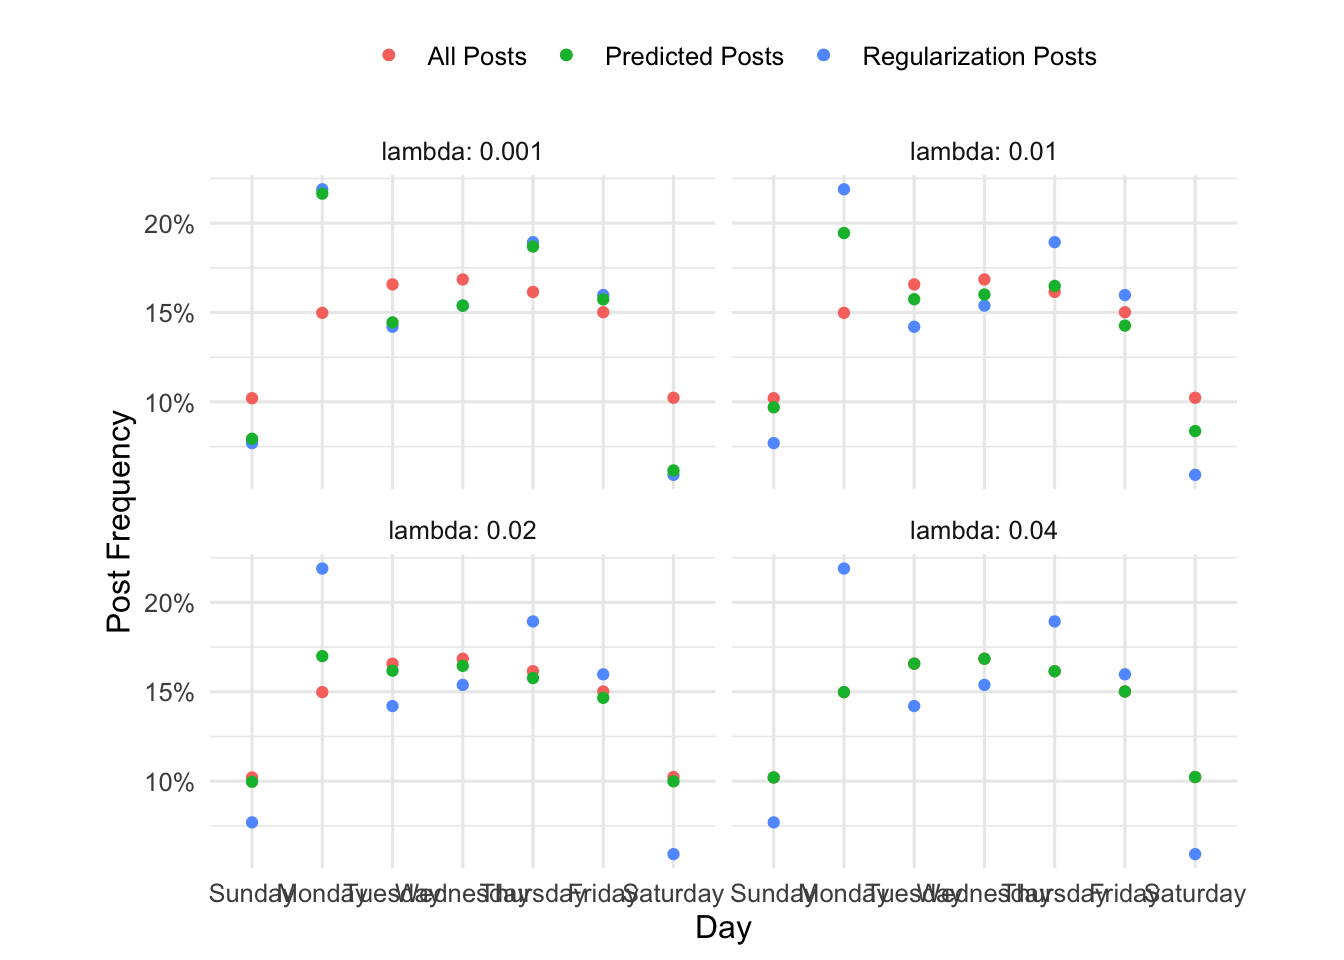
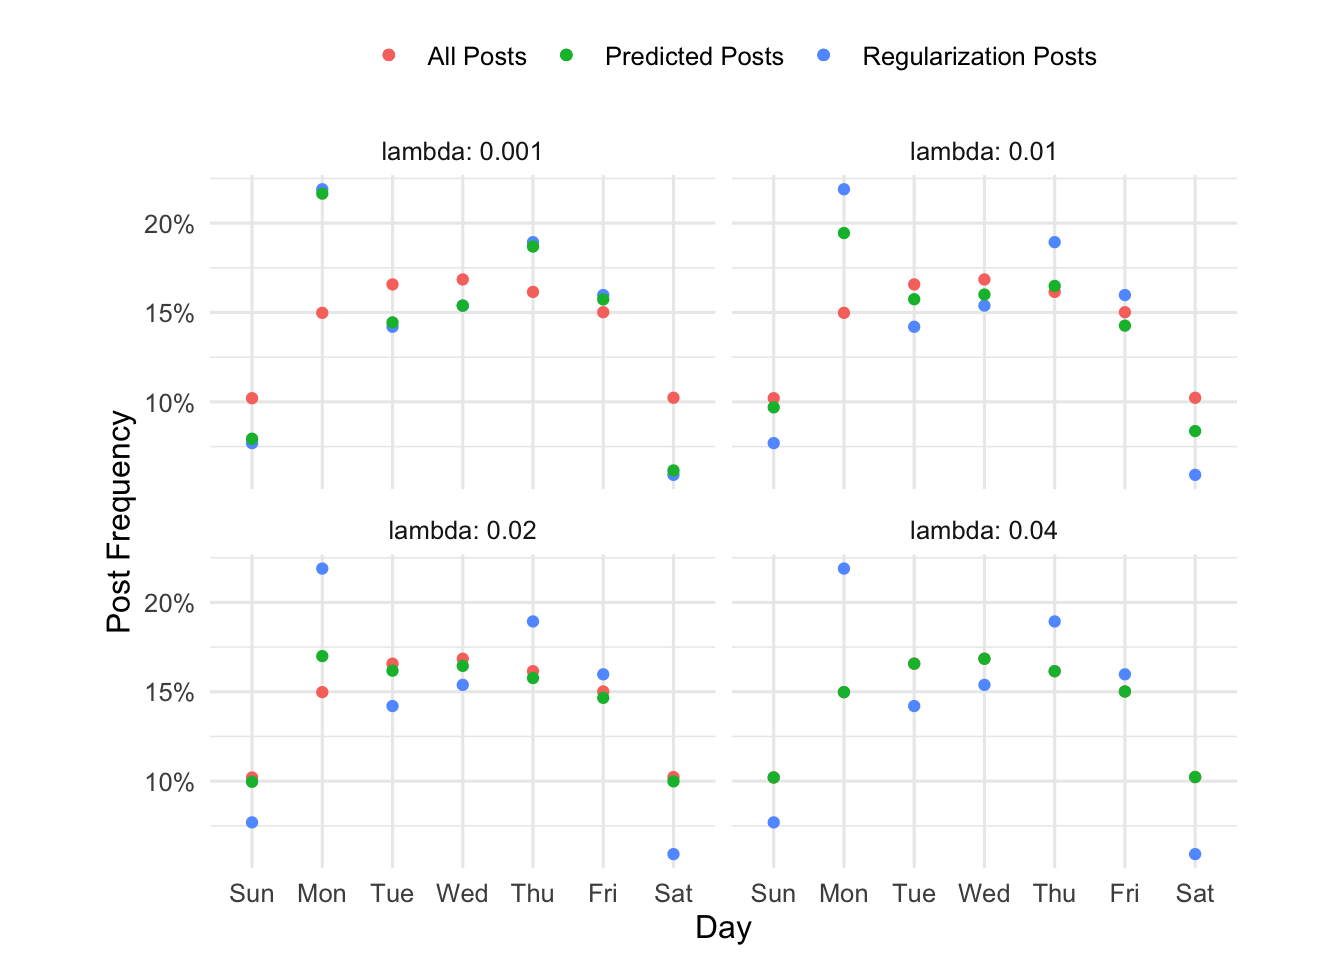
adds penalty postz'

Changed region(s): [[0.1562, 0.9062, 0.9375, 0.9375]]

diff --git a/docs/posts/2023-09-24-l1/index.html b/docs/posts/2023-09-24-l1/index.html
@@ -7,7 +7,7 @@
 <meta name="viewport" content="width=device-width, initial-scale=1.0, user-scalable=yes">
 
 <meta name="author" content="Demetri Pananos">
-<meta name="dcterms.date" content="2023-09-08">
+<meta name="dcterms.date" content="2023-09-24">
 
 <title>Demetri Pananos Ph.D - Regularization of Noisy Multinomial Countrs</title>
 <style>
@@ -200,7 +200,7 @@ code span.wa { color: #60a0b0; font-weight: bold; font-style: italic; } /* Warni
       <div>
       <div class="quarto-title-meta-heading">Published</div>
       <div class="quarto-title-meta-contents">
-        <p class="date">September 8, 2023</p>
+        <p class="date">September 24, 2023</p>
       </div>
     </div>
     
@@ -341,7 +341,7 @@ order by cast(A.CreationDate as date)
 <span id="cb3-3"><a href="#cb3-3" aria-hidden="true" tabindex="-1"></a>            <span class="fu">geom_point</span>(<span class="fu">aes</span>(oday, num_posts_p, <span class="at">color=</span><span class="st">'All Posts'</span>)) <span class="sc">+</span> </span>
 <span id="cb3-4"><a href="#cb3-4" aria-hidden="true" tabindex="-1"></a>            <span class="fu">geom_point</span>(<span class="fu">aes</span>(oday, reg_posts_p, <span class="at">color=</span><span class="st">'Regularization Posts'</span>)) <span class="sc">+</span> </span>
 <span id="cb3-5"><a href="#cb3-5" aria-hidden="true" tabindex="-1"></a>            <span class="fu">scale_y_continuous</span>(<span class="at">labels =</span> scales<span class="sc">::</span>percent) <span class="sc">+</span> </span>
-<span id="cb3-6"><a href="#cb3-6" aria-hidden="true" tabindex="-1"></a>            <span class="fu">labs</span>(<span class="at">x=</span><span class="st">'Day'</span>, <span class="at">y=</span><span class="st">'Post Frequency'</span>, <span class="at">color=</span><span class="st">''</span>)</span>
+<span id="cb3-6"><a href="#cb3-6" aria-hidden="true" tabindex="-1"></a>            <span class="fu">labs</span>(<span class="at">x=</span><span class="st">'Day'</span>, <span class="at">y=</span><span class="st">'Post Frequency'</span>, <span class="at">color=</span><span class="st">''</span>) </span>
 <span id="cb3-7"><a href="#cb3-7" aria-hidden="true" tabindex="-1"></a>            </span>
 <span id="cb3-8"><a href="#cb3-8" aria-hidden="true" tabindex="-1"></a>base_plot</span></code><button title="Copy to Clipboard" class="code-copy-button"><i class="bi"></i></button></pre></div>
 </details>
@@ -361,7 +361,7 @@ order by cast(A.CreationDate as date)
 <span id="cb4-6"><a href="#cb4-6" aria-hidden="true" tabindex="-1"></a><span class="co"># Grid of penalties to search over</span></span>
 <span id="cb4-7"><a href="#cb4-7" aria-hidden="true" tabindex="-1"></a>lambda.grid <span class="ot">&lt;-</span> <span class="dv">2</span><span class="sc">^</span><span class="fu">seq</span>(<span class="sc">-</span><span class="dv">8</span>, <span class="dv">0</span>, <span class="fl">0.005</span>)</span>
 <span id="cb4-8"><a href="#cb4-8" aria-hidden="true" tabindex="-1"></a></span>
-<span id="cb4-9"><a href="#cb4-9" aria-hidden="true" tabindex="-1"></a><span class="co"># Fir the model and compute the difference between the largest error and our tolerance</span></span>
+<span id="cb4-9"><a href="#cb4-9" aria-hidden="true" tabindex="-1"></a><span class="co"># Fit the model and compute the difference between the largest error and our tolerance</span></span>
 <span id="cb4-10"><a href="#cb4-10" aria-hidden="true" tabindex="-1"></a>fit_lasso <span class="ot">&lt;-</span> <span class="cf">function</span>(x){</span>
 <span id="cb4-11"><a href="#cb4-11" aria-hidden="true" tabindex="-1"></a>  fit <span class="ot">&lt;-</span> <span class="fu">glmnet</span>(X, r, <span class="at">family=</span><span class="st">'poisson'</span>, <span class="at">offset=</span><span class="fu">log</span>(u), <span class="at">lambda=</span>x)</span>
 <span id="cb4-12"><a href="#cb4-12" aria-hidden="true" tabindex="-1"></a>  p <span class="ot">&lt;-</span> <span class="fu">predict</span>(fit, <span class="at">newx=</span>X, <span class="at">newoffset=</span><span class="fu">log</span>(u), <span class="at">type=</span><span class="st">'response'</span>)</span>
@@ -369,24 +369,26 @@ order by cast(A.CreationDate as date)
 <span id="cb4-14"><a href="#cb4-14" aria-hidden="true" tabindex="-1"></a>}</span>
 <span id="cb4-15"><a href="#cb4-15" aria-hidden="true" tabindex="-1"></a></span>
 <span id="cb4-16"><a href="#cb4-16" aria-hidden="true" tabindex="-1"></a>errors<span class="ot">&lt;-</span><span class="fu">map_dbl</span>(lambda.grid, fit_lasso)</span>
-<span id="cb4-17"><a href="#cb4-17" aria-hidden="true" tabindex="-1"></a>lambda <span class="ot">&lt;-</span> lambda.grid[<span class="fu">which.min</span>(errors)]</span>
-<span id="cb4-18"><a href="#cb4-18" aria-hidden="true" tabindex="-1"></a>fit <span class="ot">&lt;-</span> <span class="fu">glmnet</span>(X, r, <span class="at">family=</span><span class="st">'poisson'</span>, <span class="at">offset=</span><span class="fu">log</span>(u), <span class="at">lambda=</span>lambda)</span>
-<span id="cb4-19"><a href="#cb4-19" aria-hidden="true" tabindex="-1"></a>d<span class="sc">$</span>predicted <span class="ot">&lt;-</span> <span class="fu">predict</span>(fit, <span class="at">newx=</span>X, <span class="at">newoffset=</span><span class="fu">log</span>(u), <span class="at">type=</span><span class="st">'response'</span>)[, <span class="st">'s0'</span>]</span>
-<span id="cb4-20"><a href="#cb4-20" aria-hidden="true" tabindex="-1"></a></span>
-<span id="cb4-21"><a href="#cb4-21" aria-hidden="true" tabindex="-1"></a>new_plot <span class="ot">&lt;-</span> d <span class="sc">%&gt;%</span> </span>
-<span id="cb4-22"><a href="#cb4-22" aria-hidden="true" tabindex="-1"></a>            <span class="fu">ggplot</span>() <span class="sc">+</span> </span>
-<span id="cb4-23"><a href="#cb4-23" aria-hidden="true" tabindex="-1"></a>            <span class="fu">geom_point</span>(<span class="fu">aes</span>(oday, num_posts_p, <span class="at">color=</span><span class="st">'All Posts'</span>)) <span class="sc">+</span> </span>
-<span id="cb4-24"><a href="#cb4-24" aria-hidden="true" tabindex="-1"></a>            <span class="fu">geom_point</span>(<span class="fu">aes</span>(oday, reg_posts_p, <span class="at">color=</span><span class="st">'Regularization Posts'</span>)) <span class="sc">+</span> </span>
-<span id="cb4-25"><a href="#cb4-25" aria-hidden="true" tabindex="-1"></a>            <span class="fu">geom_point</span>(<span class="fu">aes</span>(oday, predicted, <span class="at">color=</span><span class="st">'Predicted Posts'</span>)) <span class="sc">+</span> </span>
-<span id="cb4-26"><a href="#cb4-26" aria-hidden="true" tabindex="-1"></a>            <span class="fu">scale_y_continuous</span>(<span class="at">labels =</span> scales<span class="sc">::</span>percent) <span class="sc">+</span> </span>
-<span id="cb4-27"><a href="#cb4-27" aria-hidden="true" tabindex="-1"></a>            <span class="fu">labs</span>(<span class="at">x=</span><span class="st">'Day'</span>, <span class="at">y=</span><span class="st">'Post Frequency'</span>, <span class="at">color=</span><span class="st">''</span>)</span>
-<span id="cb4-28"><a href="#cb4-28" aria-hidden="true" tabindex="-1"></a></span>
-<span id="cb4-29"><a href="#cb4-29" aria-hidden="true" tabindex="-1"></a>new_plot</span></code><button title="Copy to Clipboard" class="code-copy-button"><i class="bi"></i></button></pre></div>
+<span id="cb4-17"><a href="#cb4-17" aria-hidden="true" tabindex="-1"></a><span class="co"># Select the lambda which produces error closest to 0.03</span></span>
+<span id="cb4-18"><a href="#cb4-18" aria-hidden="true" tabindex="-1"></a>lambda <span class="ot">&lt;-</span> lambda.grid[<span class="fu">which.min</span>(errors)]</span>
+<span id="cb4-19"><a href="#cb4-19" aria-hidden="true" tabindex="-1"></a><span class="co"># Make predictions under this model</span></span>
+<span id="cb4-20"><a href="#cb4-20" aria-hidden="true" tabindex="-1"></a>fit <span class="ot">&lt;-</span> <span class="fu">glmnet</span>(X, r, <span class="at">family=</span><span class="st">'poisson'</span>, <span class="at">offset=</span><span class="fu">log</span>(u), <span class="at">lambda=</span>lambda)</span>
+<span id="cb4-21"><a href="#cb4-21" aria-hidden="true" tabindex="-1"></a>d<span class="sc">$</span>predicted <span class="ot">&lt;-</span> <span class="fu">predict</span>(fit, <span class="at">newx=</span>X, <span class="at">newoffset=</span><span class="fu">log</span>(u), <span class="at">type=</span><span class="st">'response'</span>)[, <span class="st">'s0'</span>]</span>
+<span id="cb4-22"><a href="#cb4-22" aria-hidden="true" tabindex="-1"></a></span>
+<span id="cb4-23"><a href="#cb4-23" aria-hidden="true" tabindex="-1"></a>new_plot <span class="ot">&lt;-</span> d <span class="sc">%&gt;%</span> </span>
+<span id="cb4-24"><a href="#cb4-24" aria-hidden="true" tabindex="-1"></a>            <span class="fu">ggplot</span>() <span class="sc">+</span> </span>
+<span id="cb4-25"><a href="#cb4-25" aria-hidden="true" tabindex="-1"></a>            <span class="fu">geom_point</span>(<span class="fu">aes</span>(oday, num_posts_p, <span class="at">color=</span><span class="st">'All Posts'</span>)) <span class="sc">+</span> </span>
+<span id="cb4-26"><a href="#cb4-26" aria-hidden="true" tabindex="-1"></a>            <span class="fu">geom_point</span>(<span class="fu">aes</span>(oday, reg_posts_p, <span class="at">color=</span><span class="st">'Regularization Posts'</span>)) <span class="sc">+</span> </span>
+<span id="cb4-27"><a href="#cb4-27" aria-hidden="true" tabindex="-1"></a>            <span class="fu">geom_point</span>(<span class="fu">aes</span>(oday, predicted, <span class="at">color=</span><span class="st">'Predicted Posts'</span>)) <span class="sc">+</span> </span>
+<span id="cb4-28"><a href="#cb4-28" aria-hidden="true" tabindex="-1"></a>            <span class="fu">scale_y_continuous</span>(<span class="at">labels =</span> scales<span class="sc">::</span>percent) <span class="sc">+</span> </span>
+<span id="cb4-29"><a href="#cb4-29" aria-hidden="true" tabindex="-1"></a>            <span class="fu">labs</span>(<span class="at">x=</span><span class="st">'Day'</span>, <span class="at">y=</span><span class="st">'Post Frequency'</span>, <span class="at">color=</span><span class="st">''</span>)</span>
+<span id="cb4-30"><a href="#cb4-30" aria-hidden="true" tabindex="-1"></a></span>
+<span id="cb4-31"><a href="#cb4-31" aria-hidden="true" tabindex="-1"></a>new_plot</span></code><button title="Copy to Clipboard" class="code-copy-button"><i class="bi"></i></button></pre></div>
 <div class="cell-output-display">
 <p><img src="index_files/figure-html/unnamed-chunk-3-1.png" class="img-fluid" width="672"></p>
 </div>
 </div>
-<p>This might be easier to see if we follow Tuffte and show small multiples</p>
+<p>This might be easier to see if we follow Tufte and show small multiples. You can see as the penalty increases, the green dots (predicted) go from the blue dots (observed frequencies of regularization related posts) to the pink dots (the frequencies of all plots).</p>
 <div class="cell">
 <details>
 <summary>Code</summary>
@@ -407,13 +409,16 @@ order by cast(A.CreationDate as date)
 <span id="cb5-15"><a href="#cb5-15" aria-hidden="true" tabindex="-1"></a>      <span class="fu">geom_point</span>(<span class="fu">aes</span>(oday, predicted, <span class="at">color=</span><span class="st">'Predicted Posts'</span>)) <span class="sc">+</span> </span>
 <span id="cb5-16"><a href="#cb5-16" aria-hidden="true" tabindex="-1"></a>      <span class="fu">scale_y_continuous</span>(<span class="at">labels =</span> scales<span class="sc">::</span>percent) <span class="sc">+</span> </span>
 <span id="cb5-17"><a href="#cb5-17" aria-hidden="true" tabindex="-1"></a>      <span class="fu">labs</span>(<span class="at">x=</span><span class="st">'Day'</span>, <span class="at">y=</span><span class="st">'Post Frequency'</span>, <span class="at">color=</span><span class="st">''</span>) <span class="sc">+</span> </span>
-<span id="cb5-18"><a href="#cb5-18" aria-hidden="true" tabindex="-1"></a>      <span class="fu">facet_wrap</span>(<span class="sc">~</span>lambda, <span class="at">labeller =</span> label_both)</span></code><button title="Copy to Clipboard" class="code-copy-button"><i class="bi"></i></button></pre></div>
+<span id="cb5-18"><a href="#cb5-18" aria-hidden="true" tabindex="-1"></a>      <span class="fu">facet_wrap</span>(<span class="sc">~</span>lambda, <span class="at">labeller =</span> label_both) <span class="sc">+</span> </span>
+<span id="cb5-19"><a href="#cb5-19" aria-hidden="true" tabindex="-1"></a>      <span class="fu">scale_x_discrete</span>(</span>
+<span id="cb5-20"><a href="#cb5-20" aria-hidden="true" tabindex="-1"></a>        <span class="at">labels =</span> <span class="fu">c</span>(<span class="st">'Sun'</span>, <span class="st">'Mon'</span>, <span class="st">'Tue'</span>, <span class="st">'Wed'</span>, <span class="st">'Thu'</span>, <span class="st">'Fri'</span>, <span class="st">'Sat'</span>)</span>
+<span id="cb5-21"><a href="#cb5-21" aria-hidden="true" tabindex="-1"></a>      )</span></code><button title="Copy to Clipboard" class="code-copy-button"><i class="bi"></i></button></pre></div>
 </details>
 <div class="cell-output-display">
 <p><img src="index_files/figure-html/unnamed-chunk-4-1.png" class="img-fluid" width="672"></p>
 </div>
 </div>
-<p>Cool! Using <span class="math inline">\(\mathbf{u}\)</span> (here, the frequency of total posts on each day) acts as a sort of target towards wich to regularize.</p>
+<p>Cool! Using <span class="math inline">\(\mathbf{u}\)</span> (here, the frequency of total posts on each day) as an offset acts as a sort of target towards which to regularize.</p>
 
 
 
